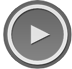
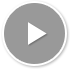
add resource for UI

diff --git a/mia/UI/RadioViewController.m b/mia/UI/RadioViewController.m
@@ -15,7 +15,7 @@
 #import "AAPullToRefresh.h"
 #import "MIAButton.h"
 
-const CGFloat kTopViewDefaultHeight				= 30.0f;
+const CGFloat kTopViewDefaultHeight				= 60.0f;
 const CGFloat kBottomViewDefaultHeight			= 30.0f;
 
 static NSString * kAlertTitleError			= @"错误提示";
@@ -135,8 +135,7 @@ static NSString * kAlertMsgSendGUIDFailed	= @"服务器连接错误（发送GUID
 		.origin.y = kTopButtonMarginTop,
 		.size.width = kTopButtonWidth,
 		.size.height = kTopButtonHeight};
-	profileButton = [[MIAButton alloc] initWithFrame:profileButtonFrame titleString:@"9" titleColor:[UIColor whiteColor] font:UIFontFromSize(15) logoImg:nil backgroundImage:[UIImage imageExtrude:[UIImage imageNamed:@"startButton_normal"]]];
-	[profileButton setBackgroundImage:[UIImage imageExtrude:[UIImage imageNamed:@"startButton_hover"]] forState:UIControlStateHighlighted];
+	profileButton = [[MIAButton alloc] initWithFrame:profileButtonFrame titleString:@"" titleColor:[UIColor whiteColor] font:UIFontFromSize(15) logoImg:nil backgroundImage:[UIImage imageExtrude:[UIImage imageNamed:@"profile"]]];
 	[profileButton addTarget:self action:@selector(profileButtonAction:) forControlEvents:UIControlEventTouchUpInside];
 	[self.view addSubview:profileButton];
 
@@ -148,9 +147,8 @@ static NSString * kAlertMsgSendGUIDFailed	= @"服务器连接错误（发送GUID
 									   titleString:nil
 										titleColor:[UIColor whiteColor]
 											  font:UIFontFromSize(15)
-										   logoImg:[UIImage imageExtrude:[UIImage imageNamed:@"setting_share"]]
-								   backgroundImage:[UIImage imageExtrude:[UIImage imageNamed:@"startButton_normal"]]];
-	[shareButton setBackgroundImage:[UIImage imageExtrude:[UIImage imageNamed:@"startButton_hover"]] forState:UIControlStateHighlighted];
+										   logoImg:nil
+								   backgroundImage:[UIImage imageExtrude:[UIImage imageNamed:@"share_music"]]];
 	[shareButton addTarget:self action:@selector(profileButtonAction:) forControlEvents:UIControlEventTouchUpInside];
 	[self.view addSubview:shareButton];
 
@@ -251,8 +249,12 @@ static NSString * kAlertMsgSendGUIDFailed	= @"服务器连接错误（发送GUID
 
 #pragma mark - Actions
 
-- (void)profileButtonAction:(id)sender {}
-- (void)shareButtonAction:(id)sender {}
+- (void)profileButtonAction:(id)sender {
+	NSLog(@"profile button clicked");
+}
+- (void)shareButtonAction:(id)sender {
+	NSLog(@"share button clicked");
+}
 
 - (void)pullReflashFromTop {
 //	NSLog(@"pullReflashFromTop");

diff --git a/mia/UI/DetailViewController.m b/mia/UI/DetailViewController.m
@@ -1,0 +1,71 @@
+//
+//  DetailViewController.m
+//  mia
+//
+//  Created by linyehui on 2015/09/08.
+//  Copyright (c) 2015年 Mia Music. All rights reserved.
+//
+
+#import "DetailViewController.h"
+#import "MIAButton.h"
+
+
+@interface DetailViewController ()
+
+@end
+
+@implementation DetailViewController {
+}
+
+- (void)viewDidLoad {
+	[super viewDidLoad];
+	// Do any additional setup after loading the view, typically from a nib.
+	[self initUI];
+}
+
+-(void)dealloc {
+}
+
+- (void)didReceiveMemoryWarning {
+	[super didReceiveMemoryWarning];
+	// Dispose of any resources that can be recreated.
+}
+
+- (void)viewWillAppear:(BOOL)animated
+{
+	[super viewWillAppear:animated];
+}
+
+- (void)viewWillDisappear:(BOOL)animated {
+	[super viewWillDisappear:animated];
+}
+
+- (void)viewDidAppear:(BOOL)animated;
+{
+	//[self.navigationController setNavigationBarHidden:YES animated:animated];
+	[super viewDidAppear:animated];
+}
+
+- (void)viewDidDisappear:(BOOL)animated
+{
+	//[self.navigationController setNavigationBarHidden:NO animated:animated];
+	[super viewDidDisappear:animated];
+}
+
+- (void)initUI {
+	[self.view setBackgroundColor:[UIColor redColor]];
+}
+
+
+#pragma mark - button Actions
+
+- (void)backButtonAction:(id)sender {
+	NSLog(@"back button clicked.");
+}
+
+- (void)moreButtonAction:(id)sender {
+	NSLog(@"more button clicked.");
+}
+
+
+@end

diff --git a/mia/UI/DetailViewController.h b/mia/UI/DetailViewController.h
@@ -1,0 +1,15 @@
+//
+//  DetailViewController.h
+//  mia
+//
+//  Created by linyehui on 2015/09/08.
+//  Copyright (c) 2015年 Mia Music. All rights reserved.
+//
+
+#import <UIKit/UIKit.h>
+
+@interface DetailViewController : UIViewController
+
+
+@end
+
